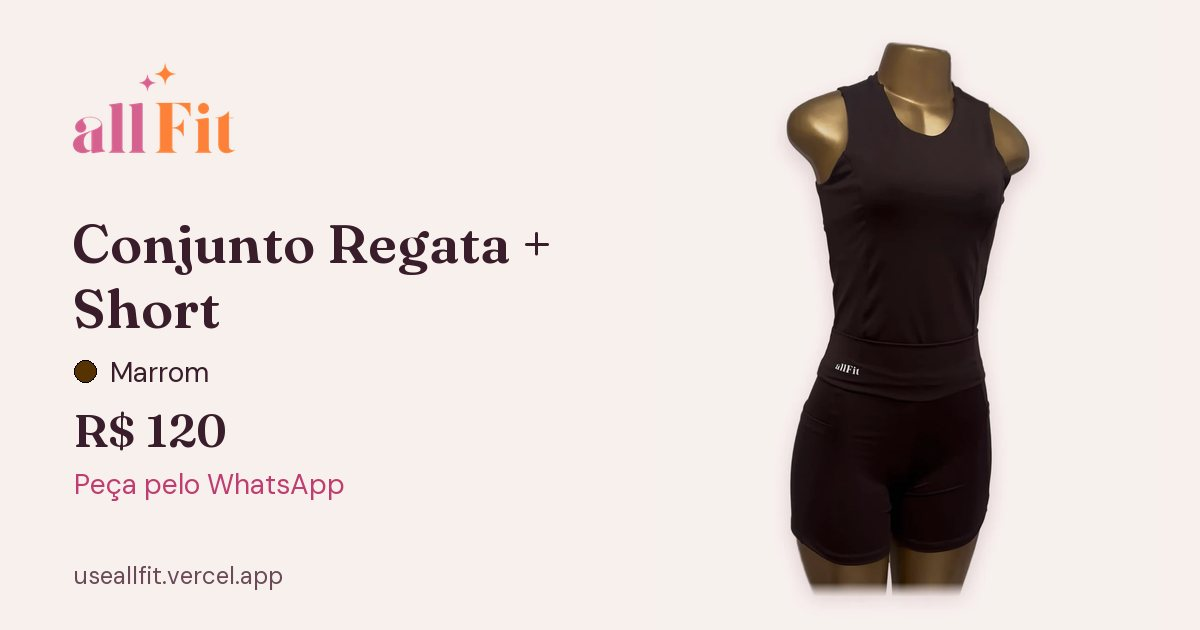
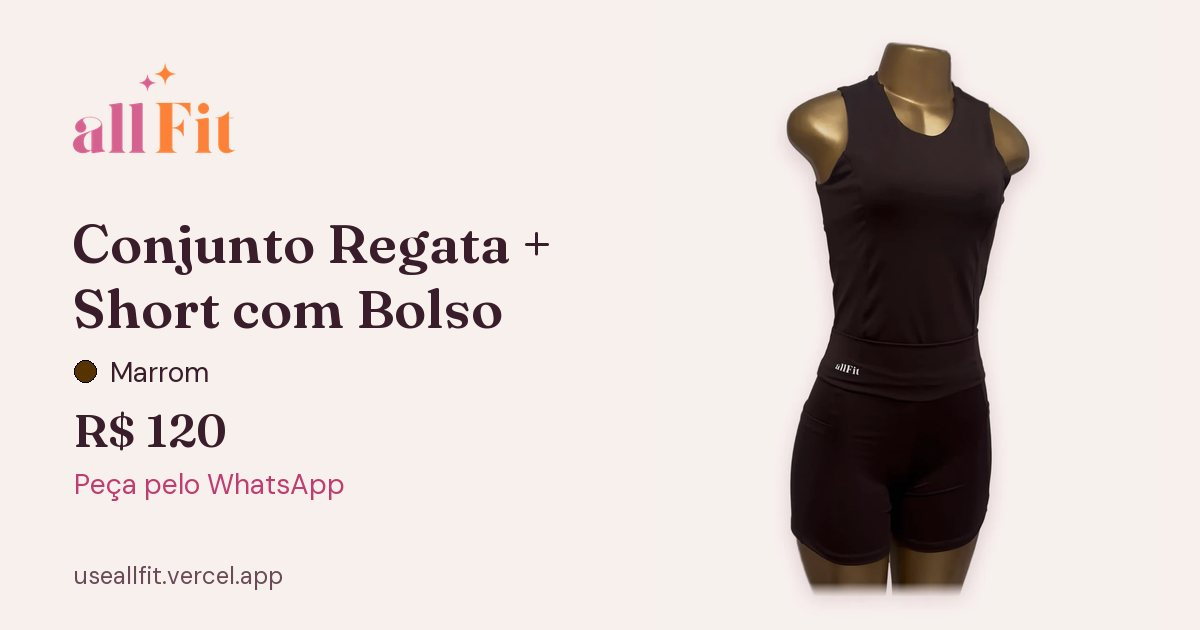
Store feedback: "com Bolso" in pocket-set names, sleeved short set R$120
- p01, p23, p25, p27, p29 (sets with side pockets, R$120) now say "com Bolso".
- p04 Conjunto Cropped Manga Curta + Short: R$120 (sleeves).

Changed region(s): [[0.185, 0.4524, 0.4317, 0.5429]]

diff --git a/api/_products.js b/api/_products.js
@@ -9,7 +9,7 @@ export const PRODUCTS = [
  },
  {
   "id": "p01",
-  "name": "Conjunto Regata + Short",
+  "name": "Conjunto Regata + Short com Bolso",
   "type": "conjunto",
   "color": "Marrom",
   "price": 120
@@ -33,7 +33,7 @@ export const PRODUCTS = [
   "name": "Conjunto Cropped Manga Curta + Short",
   "type": "conjunto",
   "color": "Verde militar",
-  "price": 110
+  "price": 120
  },
  {
   "id": "p05",
@@ -163,7 +163,7 @@ export const PRODUCTS = [
  },
  {
   "id": "p23",
-  "name": "Conjunto Top Regata + Short",
+  "name": "Conjunto Top Regata + Short com Bolso",
   "type": "conjunto",
   "color": "Verde militar",
   "price": 120
@@ -177,7 +177,7 @@ export const PRODUCTS = [
  },
  {
   "id": "p25",
-  "name": "Conjunto Top Ombro Único + Short",
+  "name": "Conjunto Top Ombro Único + Short com Bolso",
   "type": "conjunto",
   "color": "Verde militar",
   "price": 120
@@ -191,7 +191,7 @@ export const PRODUCTS = [
  },
  {
   "id": "p27",
-  "name": "Conjunto Top Regata + Short",
+  "name": "Conjunto Top Regata + Short com Bolso",
   "type": "conjunto",
   "color": "Vermelho",
   "price": 120
@@ -205,7 +205,7 @@ export const PRODUCTS = [
  },
  {
   "id": "p29",
-  "name": "Conjunto Top Decote Torcido + Short",
+  "name": "Conjunto Top Decote Torcido + Short com Bolso",
   "type": "conjunto",
   "color": "Azul marinho",
   "price": 120
